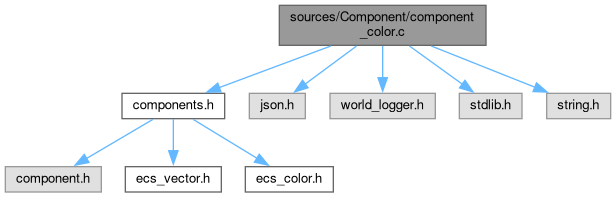
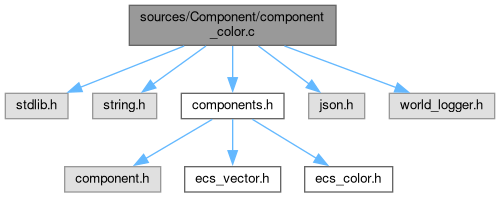
Deploying to gh-pages from @ osvegn/ECS_CORE@2332fc5de599bd1c72817d0f26805a5b756183f3 🚀

diff --git a/docs/ECS_CORE/component__color_8c.html b/docs/ECS_CORE/component__color_8c.html
@@ -96,25 +96,25 @@ $(document).ready(function(){initNavTree('component__color_8c.html',''); initRes
   <div class="headertitle"><div class="title">component_color.c File Reference</div></div>
 </div><!--header-->
 <div class="contents">
-<div class="textblock"><code>#include &quot;<a class="el" href="components_8h_source.html">components.h</a>&quot;</code><br />
+<div class="textblock"><code>#include &lt;stdlib.h&gt;</code><br />
+<code>#include &lt;string.h&gt;</code><br />
+<code>#include &quot;<a class="el" href="components_8h_source.html">components.h</a>&quot;</code><br />
 <code>#include &quot;json.h&quot;</code><br />
 <code>#include &quot;world_logger.h&quot;</code><br />
-<code>#include &lt;stdlib.h&gt;</code><br />
-<code>#include &lt;string.h&gt;</code><br />
 </div><div class="textblock"><div class="dynheader">
 Include dependency graph for component_color.c:</div>
 <div class="dyncontent">
 <div class="center"><img src="component__color_8c__incl.png" border="0" usemap="#asources_2Component_2component__color_8c" alt=""/></div>
 <map name="asources_2Component_2component__color_8c" id="asources_2Component_2component__color_8c">
-<area shape="rect" title=" " alt="" coords="279,5,486,45"/>
-<area shape="rect" href="components_8h.html" title=" " alt="" coords="122,93,225,119"/>
-<area shape="rect" title=" " alt="" coords="249,93,305,119"/>
-<area shape="rect" title=" " alt="" coords="330,93,435,119"/>
-<area shape="rect" title=" " alt="" coords="459,93,522,119"/>
-<area shape="rect" title=" " alt="" coords="547,93,611,119"/>
-<area shape="rect" title=" " alt="" coords="5,167,101,192"/>
-<area shape="rect" href="ecs__vector_8h.html" title=" " alt="" coords="125,167,221,192"/>
-<area shape="rect" href="ecs__color_8h.html" title=" " alt="" coords="245,167,333,192"/>
+<area shape="rect" title=" " alt="" coords="129,5,336,45"/>
+<area shape="rect" title=" " alt="" coords="5,93,68,119"/>
+<area shape="rect" title=" " alt="" coords="93,93,157,119"/>
+<area shape="rect" href="components_8h.html" title=" " alt="" coords="181,93,284,119"/>
+<area shape="rect" title=" " alt="" coords="309,93,365,119"/>
+<area shape="rect" title=" " alt="" coords="389,93,495,119"/>
+<area shape="rect" title=" " alt="" coords="65,167,161,192"/>
+<area shape="rect" href="ecs__vector_8h.html" title=" " alt="" coords="185,167,281,192"/>
+<area shape="rect" href="ecs__color_8h.html" title=" " alt="" coords="305,167,393,192"/>
 </map>
 </div>
 </div><table class="memberdecls">
